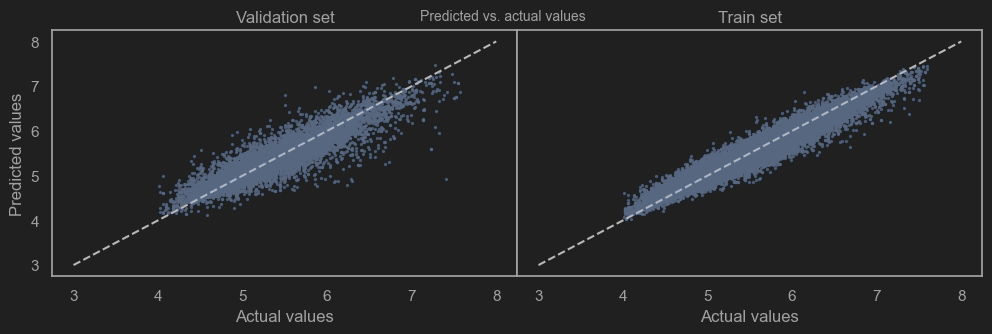
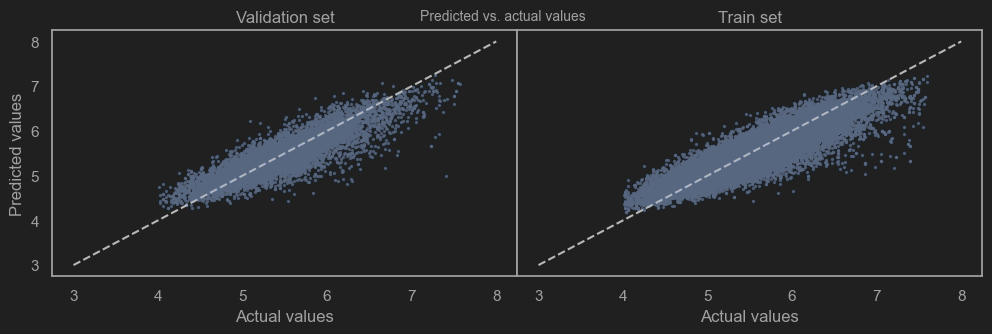
Updated README.md

Changed region(s): [[0.625, 0.1796, 0.9375, 0.6587], [0.1562, 0.2096, 0.4688, 0.6587]]

diff --git a/README.md b/README.md
@@ -80,14 +80,18 @@ Various visualizations are used to better understand the data, including:
 
 
 ## Conclusion
-This analysis provides insights into the factors that contribute to the price of an Airbnb listing in Europe. It shows the importance of features such as the number of bedrooms, the distance from the city center, and the satisfaction rating. The XGBoost regression model was able to accurately predict the price of a listing with an R-squared value of 80% for the validation data and 93% for the training data.
+This analysis provides insights into the factors that contribute to the price of an Airbnb listing in Europe. It shows the importance of features such as the number of bedrooms, the distance from the city center, and the satisfaction rating. The XGBoost regression model was able to accurately predict the price of a listing with an R-squared value of 76% for the validation data and 79% for the training data.
 
 ```
-Training MSE: 0.0233
-Validation MSE: 0.0662
+Training MSE: 0.071
+Validation MSE: 0.0798
 
-Training r2: 0.9303
-Validation r2: 0.8014
+Training r2: 0.7881
+Validation r2: 0.7607
+
+Difference between training and validation scores:
+MSE: 0.0088
+r2: 0.0273
 ```
 
 ![Actuals_vs_Predicted.png](img%2FActuals_vs_Predicted.png)
